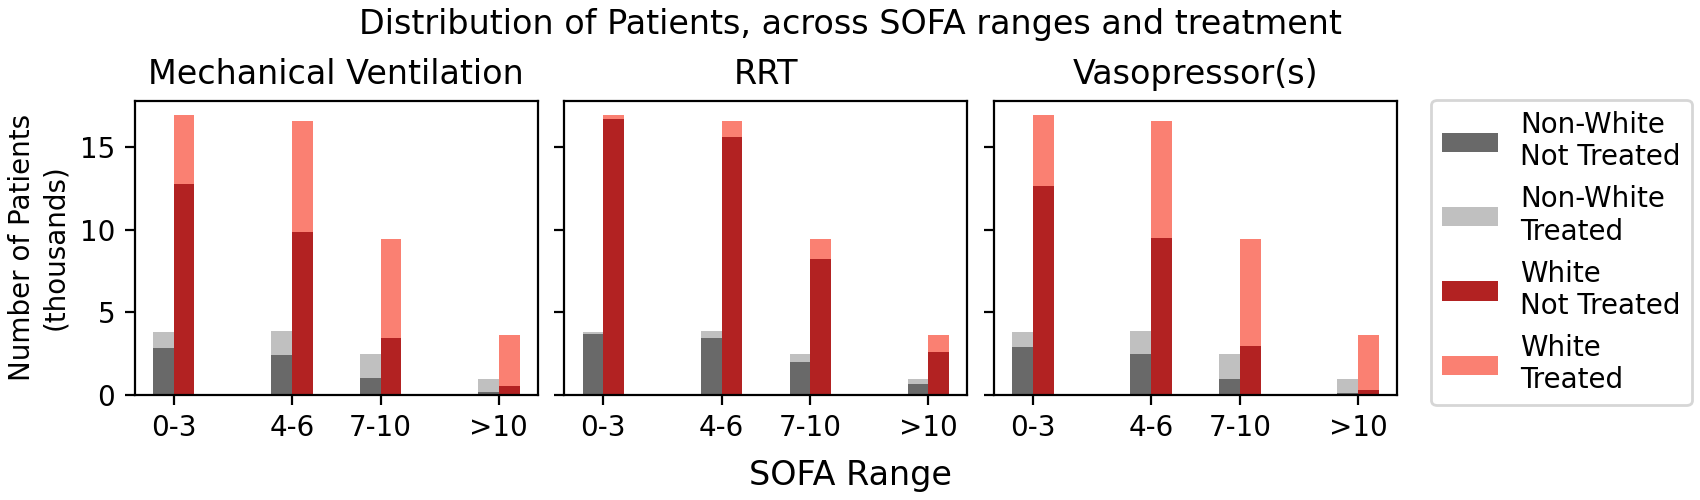
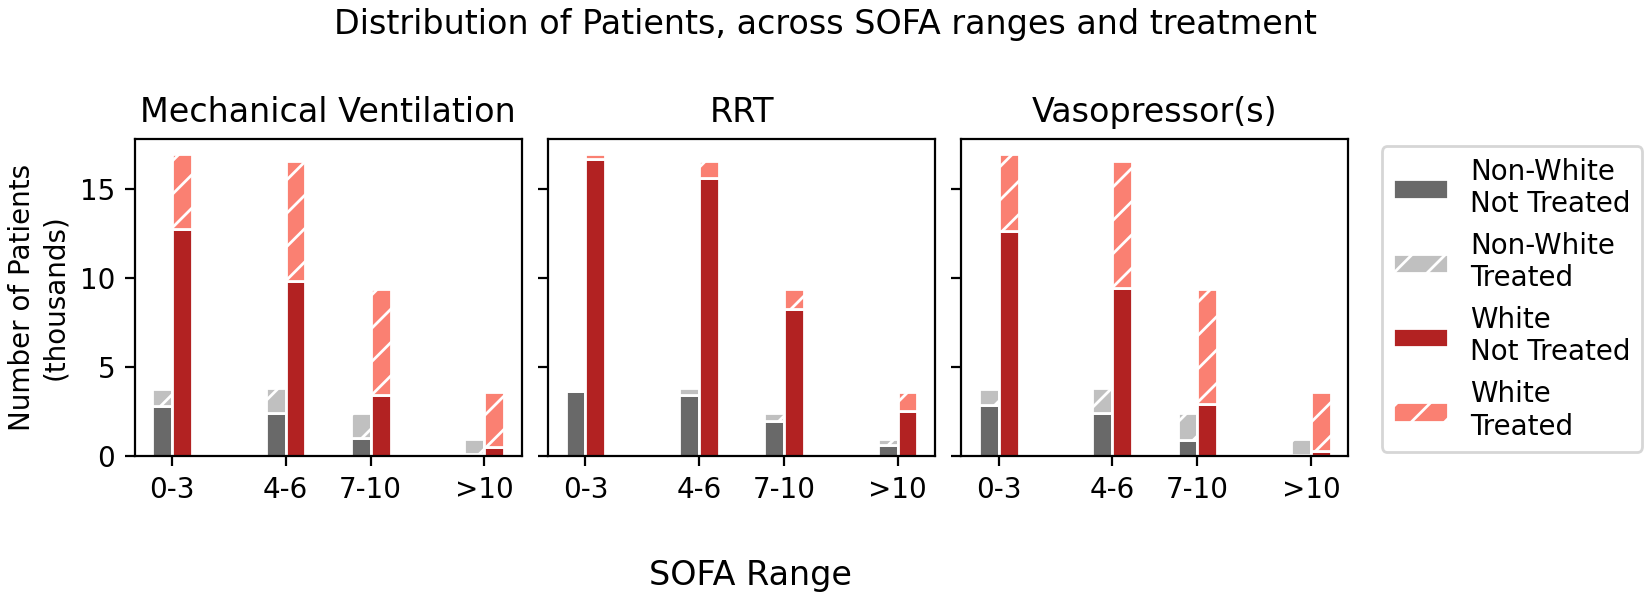
Sensitivity Analyses' plots

diff --git a/src/py_scripts/plots/plot_dist.py b/src/py_scripts/plots/plot_dist.py
@@ -29,10 +29,10 @@ r_dict = dict(zip(range(2), ["Non-White", "White"]))
 
 fig, axes = plt.subplots(1, 3,
                          sharex=True, sharey=True,
-                         figsize=(8.5,2.5),
+                         figsize=(8.25,3),
                          constrained_layout=True)
 
-fig.suptitle('Distribution of Patients, across SOFA ranges and treatment')
+fig.suptitle('Distribution of Patients, across SOFA ranges and treatment\n')
 
 w = [-.7, .7] 
 
@@ -52,7 +52,8 @@ for i, t in enumerate(t_dict.keys()):
                     height=df_temp[df_temp[t]==0].groupby('sofa_start')[t].count()/1000,
                     width=w[1],
                     label=f"{r}\nNot Treated",
-                    color=colors1[j]
+                    color=colors1[j],
+                    edgecolor='white'
                     )
 
         axes[i].bar(x=[i + w[j]/2 for i in sofas_start],
@@ -61,6 +62,8 @@ for i, t in enumerate(t_dict.keys()):
                     label=f"{r}\nTreated",
                     bottom=df_temp[df_temp[t]==0].groupby('sofa_start')[t].count()/1000,
                     color=colors2[j],
+                    hatch="//",
+                    edgecolor='white'
                     )
             
     axes[i].set(xlabel=None)
@@ -70,9 +73,8 @@ for i, t in enumerate(t_dict.keys()):
     axes[i].set_xticklabels(["0-3", "4-6", "7-10", ">10"])
     axes[i].set_xticks([0., 4., 7., 11.])
     axes[0].set(ylabel="Number of Patients\n(thousands)")
-    axes[2].legend(bbox_to_anchor=(1.05, 1.05), loc='upper left')
+    axes[2].legend(bbox_to_anchor=(1.05, 1.02), loc='upper left')
 
-
-fig.supxlabel('SOFA Range')
+fig.supxlabel('\nSOFA Range              ')
 
 fig.savefig(f"results/paper/fig4_TMLE_dist.png", dpi=200)

diff --git a/src/py_scripts/plots/plot_TMLE_race.py b/src/py_scripts/plots/plot_TMLE_race.py
@@ -5,8 +5,11 @@ import seaborn as sb
 import matplotlib
 matplotlib.use('TKAgg')
 
-plot_name = "TMLE_SOFA"
+plot_name = "sensitivity_analyses/TMLE_emergency_only"
+title = "TMLE Sensitivity Analysis: emergency patients only\n"
 df = pd.read_csv(f"results/{plot_name}.csv")
+df = df.rename(columns={'sofa_start': 'sev_start',
+                        'sofa_end': 'sev_end'})
 
 # Remove overall result
 df = df[~((df.sev_start == 0) & (df.sev_end == 100))]
@@ -25,10 +28,10 @@ colors = ["tab:orange", "tab:green", "tab:blue"]
 
 fig, axes = plt.subplots(1, len(treatments),
                          sharex=True, sharey=True,
-                         figsize=(8.5,2.5),
+                         figsize=(8.25,3),
                          constrained_layout=True)
 
-fig.suptitle(plot_name)
+fig.suptitle(title)
 
 for i, t in enumerate(treatments):
 
@@ -53,13 +56,13 @@ for i, t in enumerate(treatments):
                      label="White")
 
     axes[i].axhline(y=0, xmin=0, xmax=1, c="black", linewidth=.7, linestyle='--')
-    axes[i].set_ylim([-25, 25])
+    axes[i].set_ylim([-27, 27])
     axes[i].set_title(t_dict[t])
     axes[0].set(ylabel="ATE (%)\nTreated vs. Not Treated")
     axes[2].legend(bbox_to_anchor=(1.05, 0.7), loc='upper left')
     axes[i].set_xticklabels(["0-3", "4-6", "7-10", ">10"])
     axes[i].set_xticks([0, 4, 7, 11])
 
-fig.supxlabel('SOFA Range')
+fig.supxlabel('\nSOFA Range              ')
 
-fig.savefig(f"results/paper/fig3_{plot_name}.png", dpi=1000)
+fig.savefig(f"results/paper/{plot_name}.png", dpi=1000)

diff --git a/src/py_scripts/plots/plot_TMLE_race_OASIS.py b/src/py_scripts/plots/plot_TMLE_race_OASIS.py
@@ -6,6 +6,7 @@ import matplotlib
 matplotlib.use('TKAgg')
 
 plot_name = "TMLE_OASIS"
+title = "TMLE across OASIS ranges, for each invasive treatment\n"
 df = pd.read_csv(f"results/{plot_name}.csv")
 
 conversion_dict = dict(zip(df.sev_start.unique(), range(4)))
@@ -24,10 +25,10 @@ t_dict = dict(zip(["ventilation_bin", "rrt", "pressor"],
 
 fig, axes = plt.subplots(1, len(treatments),
                          sharex=True, sharey=True,
-                         figsize=(8.5,2.5),
+                         figsize=(8.25,3),
                          constrained_layout=True)
 
-fig.suptitle(plot_name)
+fig.suptitle(title)
 
 for i, t in enumerate(treatments):
 
@@ -52,13 +53,13 @@ for i, t in enumerate(treatments):
                      label="White")
 
     axes[i].axhline(y=0, xmin=0, xmax=1, c="black", linewidth=.7, linestyle='--')
-    axes[i].set_ylim([-25, 25])
+    axes[i].set_ylim([-27, 27])
     axes[i].set_title(t_dict[t])
     axes[0].set(ylabel="ATE (%)\nTreated vs. Not Treated")
     axes[2].legend(bbox_to_anchor=(1.05, 0.7), loc='upper left')
     axes[i].set_xticklabels(["0-37", "38-45", "46-51", ">51"])
     axes[i].set_xticks(range(4))
 
-fig.supxlabel('OASIS Range')
+fig.supxlabel('\nOASIS Range              ')
 
 fig.savefig(f"results/paper/fig5_{plot_name}.png", dpi=1000)
